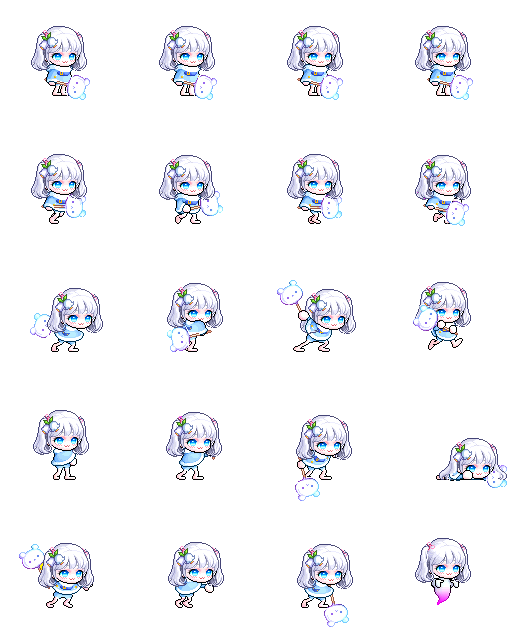
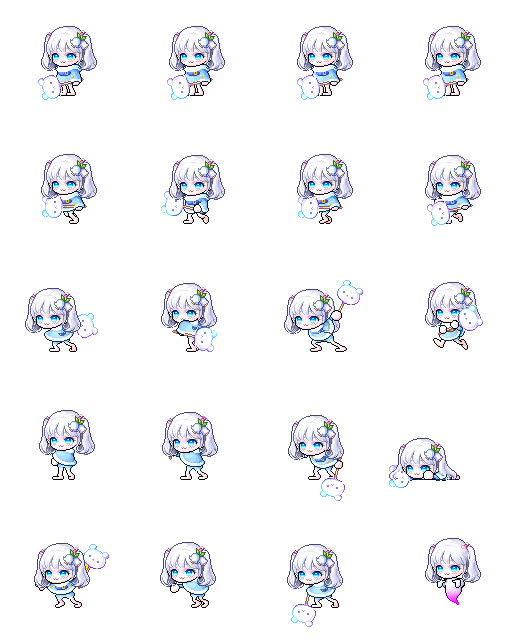
플레이어 모션 추가, 라인타기 완성, UI 구조 완성

diff --git a/Maple/Player.py b/Maple/Player.py
@@ -3,18 +3,64 @@ from Input_Manager import Input_manager
 from Scroll_Manager import ScrollManager
 from Line_Manager import LineManager
 from pico2d import *
+from enum import Enum, auto
+from Resource_Manager import ResourceManager
+from Animation_Manager import Animation
+
+
+class PlayerState(Enum):
+    IDLE = auto()
+    WALK = auto()
+    ATTACK = auto()
+    JUMP = auto()
+
+
+class Direction(Enum):
+    LEFT = auto()
+    RIGHT = auto()
+
 
 class Player(GameObject):
-    def __init__(self, x=400, y=300):  # 초기 위치
+    def __init__(self, x=400, y=300):
         super().__init__(x, y, size=50)
         self.hp = 100
-        self.speed = 200          # 이동 속도
-        self.vy = 0               # Y 속도
-        self.gravity = -1000      # 중력 (픽셀/s²)
-        self.jump_power = 500     # 점프 힘
-        self.on_ground = False    # 라인 위인지
+        self.speed = 200
+        self.vy = 0
+        self.gravity = 1300
+        self.jump_power = 500
+        self.on_ground = False
 
-        # 스크롤 초기화
+        self.state = PlayerState.IDLE
+        self.direction = Direction.RIGHT
+
+        # 공격 타이머
+        self.attack_timer = 0
+        self.prev_state = PlayerState.IDLE
+
+        rm = ResourceManager.instance()
+        self.image_left = rm.get("Player_Left")
+        self.image_right = rm.get("Player_Right")
+
+        self.animations = {
+            (PlayerState.IDLE, Direction.RIGHT): Animation(self.image_right, 128, 128,
+                                                           {'x': 0, 'y': 512, 'frame_count': 4}),
+            (PlayerState.WALK, Direction.RIGHT): Animation(self.image_right, 128, 128,
+                                                           {'x': 0, 'y': 384, 'frame_count': 4}),
+            (PlayerState.ATTACK, Direction.RIGHT): Animation(self.image_right, 128, 128,
+                                                             {'x': 0, 'y': 256, 'frame_count': 3}),
+            (PlayerState.JUMP, Direction.RIGHT): Animation(self.image_right, 128, 128,
+                                                           {'x': 384, 'y': 256, 'frame_count': 1}),
+
+            (PlayerState.IDLE, Direction.LEFT): Animation(self.image_left, 128, 128,
+                                                          {'x': 0, 'y': 512, 'frame_count': 4}),
+            (PlayerState.WALK, Direction.LEFT): Animation(self.image_left, 128, 128,
+                                                          {'x': 0, 'y': 384, 'frame_count': 4}),
+            (PlayerState.ATTACK, Direction.LEFT): Animation(self.image_left, 128, 128,
+                                                            {'x': 0, 'y': 256, 'frame_count': 3}),
+            (PlayerState.JUMP, Direction.LEFT): Animation(self.image_left, 128, 128,
+                                                          {'x': 384, 'y': 256, 'frame_count': 1}),
+        }
+
         scroll_mgr = ScrollManager.instance()
         scroll_mgr.scroll_x = 0
         scroll_mgr.scroll_y = 0
@@ -23,47 +69,75 @@ class Player(GameObject):
         if self.is_dead:
             return
 
-        self.handle_input(dt)      # 키 입력 처리
-        self.apply_gravity(dt)     # 중력 적용 및 라인 충돌 체크
-        self.update_scroll()       # 스크롤 업데이트
+        self.handle_attack_timer(dt)
+        self.handle_input(dt)
+        self.apply_gravity(dt)
+        self.update_scroll()
+        self.animations[(self.state, self.direction)].update(dt)
+
+    def handle_attack_timer(self, dt):
+        if self.attack_timer > 0:
+            self.attack_timer -= dt
+            if self.attack_timer <= 0:
+                self.attack_timer = 0
+                self.state = self.prev_state  # 공격 끝나면 이전 상태로
 
     def handle_input(self, dt):
-        # 좌우 이동
         dx = 0
-        if Input_manager.instance().Key_Pressing(SDLK_a):
-            dx = -self.speed * dt
-        if Input_manager.instance().Key_Pressing(SDLK_d):
-            dx = self.speed * dt
+        im = Input_manager.instance()
+
+        # 지상 공격 중에는 이동 불가
+        if self.state == PlayerState.ATTACK and self.on_ground:
+            dx = 0
+        else:
+            # ← → 화살표 이동
+            if im.Key_Pressing(SDLK_LEFT):
+                dx = -self.speed * dt
+                self.direction = Direction.LEFT
+                if self.on_ground and self.attack_timer == 0:
+                    self.state = PlayerState.WALK
+            elif im.Key_Pressing(SDLK_RIGHT):
+                dx = self.speed * dt
+                self.direction = Direction.RIGHT
+                if self.on_ground and self.attack_timer == 0:
+                    self.state = PlayerState.WALK
+            else:
+                if self.on_ground and self.attack_timer == 0:
+                    self.state = PlayerState.IDLE
+
+        # 점프 → Alt (왼쪽 Alt 사용, 오른쪽 Alt면 SDLK_RALT)
+        if im.Key_Down(SDLK_LALT) and self.on_ground and self.attack_timer == 0:
+            self.vy = self.jump_power
+            self.on_ground = False
+            self.state = PlayerState.JUMP
+
+        # 공격 → Ctrl (왼쪽 Ctrl 사용, 오른쪽 Ctrl면 SDLK_RCTRL)
+        if im.Key_Down(SDLK_LCTRL) and self.attack_timer == 0:
+            self.prev_state = self.state
+            self.state = PlayerState.ATTACK
+            self.attack_timer = 0.45  # 공격 모션 지속 시간
 
         self.x += dx
 
-        # 점프
-        if Input_manager.instance().Key_Down(SDLK_SPACE) and self.on_ground:
-            self.vy = self.jump_power
-            self.on_ground = False
-
     def apply_gravity(self, dt):
-        # Y 속도에 중력 적용
-        self.vy += self.gravity * dt
-        self.y += self.vy * dt
+        self.vy -= self.gravity * dt
+        new_y = self.y + self.vy * dt
 
-        # 바닥 기준 충돌 체크
-        foot_y = self.y - self.size / 2  # 플레이어 바닥 위치
-        collided_y, collision = LineManager.instance().collision_line(self.x, foot_y, move_y=abs(self.vy * dt))
+        foot_y = new_y - self.size / 2
+        collided_y, collided = LineManager.instance().collision_line(self.x, foot_y, abs(self.vy * dt))
 
-        if collision and self.vy <= 0:  # 떨어질 때만 바닥에 붙도록
+        if collided and self.vy <= 0:
             self.y = collided_y + self.size / 2
             self.vy = 0
             self.on_ground = True
         else:
+            self.y = new_y
             self.on_ground = False
 
     def update_scroll(self):
         scroll_mgr = ScrollManager.instance()
-        left_border = 300
-        right_border = 500
-        top_border = 150
-        bottom_border = 200
+        left_border, right_border = 300, 500
+        top_border, bottom_border = 150, 200
 
         if self.x - scroll_mgr.scroll_x < left_border:
             scroll_mgr.set_scroll_x(self.x - scroll_mgr.scroll_x - left_border)
@@ -77,11 +151,8 @@ class Player(GameObject):
 
     def render(self):
         scroll_x, scroll_y = ScrollManager.instance().get_scroll()
-        draw_x = self.x - scroll_x
-        draw_y = self.y - scroll_y
-
-        draw_rectangle(draw_x - self.size / 2, draw_y - self.size / 2,
-                       draw_x + self.size / 2, draw_y + self.size / 2)
+        anim = self.animations[(self.state, self.direction)]
+        anim.draw(self.x, self.y, scroll_x, scroll_y)
 
     def late_update(self):
         pass

diff --git a/Maple/Level_Tutorial.py b/Maple/Level_Tutorial.py
@@ -3,6 +3,7 @@ from Resource_Manager import ResourceManager
 from Scroll_Manager import ScrollManager
 from Line_Manager import LineManager, Line
 from Player import Player
+from Default_UI import Default_UI, UI_INDEX
 
 class level_tutorial:
     def __init__(self):
@@ -13,14 +14,39 @@ class level_tutorial:
     def initialize(self):
         rm = ResourceManager.instance()
         rm.load(self.bg_key, self.bg_path)
+        rm.load("Player_Left","Resource/Player/Player_Left.png")
+        rm.load("Player_Right", "Resource/Player/Player_Right.png")
+
+        rm.load("UI_EXP_BAR","Resource/UI/EXPBar.png")
+
+
+
         self.bg_image = rm.get(self.bg_key)
 
-        ground_line = Line(0, 210, self.bg_image.w, 210, thickness=5)
-        LineManager.instance().add_line(ground_line)
+        ground_line1 = Line(0, 210, self.bg_image.w, 210, thickness=5)
+        LineManager.instance().add_line(ground_line1)
+
+        ground_line2 = Line(280, 450, self.bg_image.w-180, 450, thickness=5)
+        LineManager.instance().add_line(ground_line2)
+
+        small_ground_line1 = Line(105,335,230,335,thickness=5)
+        LineManager.instance().add_line(small_ground_line1)
+
+        small_ground_line2 = Line(105,400,230,400,thickness=5)
+        LineManager.instance().add_line(small_ground_line2)
+
+
+        ObjectLine2 = Line(272,270,372,270,thickness=5)
+        LineManager.instance().add_line(ObjectLine2)
+
+
         players = ObjectManager.instance().get_objects(OBJ.PLAYER)
         if not players:
-            player = Player(x=300, y=300)
+            player = Player(x=300, y=400)
             ObjectManager.instance().add_object(player, OBJ.PLAYER)
+
+        exp_ui = Default_UI(UI_INDEX.EXP_BAR, player=player, x=400, y=40)
+        ObjectManager.instance().add_object(exp_ui, OBJ.UI)
 
     def update(self,dt):
         ObjectManager.instance().update(dt)
@@ -35,10 +61,11 @@ class level_tutorial:
                                     self.bg_image.w, self.bg_image.h,
                                     self.bg_image.w // 2 - scroll_x,
                                     self.bg_image.h // 2 - scroll_y)
-
-        ObjectManager.instance().render()
         scroll_x, scroll_y = ScrollManager.instance().get_scroll()
         LineManager.instance().render(scroll_x, scroll_y)
+        ObjectManager.instance().render()
+
+
 
     def release(self):
         ObjectManager.instance().release_all_except([OBJ.PLAYER])

diff --git a/Maple/Default_UI.py b/Maple/Default_UI.py
@@ -1,0 +1,52 @@
+from GameObject import GameObject
+from Resource_Manager import ResourceManager
+from pico2d import *
+from enum import Enum, auto
+
+class UI_INDEX(Enum):
+    INFO_BAR = auto()
+    EXP_BAR = auto()
+    HP_BAR = auto()
+    MP_BAR = auto()
+
+class Default_UI(GameObject):
+    def __init__(self, ui_type, player=None, x=0, y=0):
+        width, height, img_key, img_path = 200, 20, None, None
+        if ui_type == UI_INDEX.HP_BAR:
+            pass
+        elif ui_type == UI_INDEX.MP_BAR:
+            pass
+        elif ui_type == UI_INDEX.EXP_BAR:
+            width, height = 800, 80
+            img_key = "UI_EXP_BAR"
+        elif ui_type == UI_INDEX.INFO_BAR:
+            pass
+
+        super().__init__(x, y, size=max(width, height))
+        self.ui_type = ui_type
+        self.player = player
+        self.width = width
+        self.height = height
+        self.current_value = width
+
+        rm = ResourceManager.instance()
+        if img_key:
+            self.image = rm.get(img_key)
+        else:
+            self.image = None
+
+
+
+    def update(self, dt):
+        if self.ui_type == UI_INDEX.HP_BAR and self.player:
+            pass
+        elif self.ui_type == UI_INDEX.MP_BAR and self.player:
+            pass
+        elif self.ui_type == UI_INDEX.EXP_BAR and self.player:
+            pass
+        elif self.ui_type == UI_INDEX.INFO_BAR:
+            pass
+
+    def render(self):
+        if self.image:
+            self.image.draw(self.x, self.y)  # x, y는 중심 좌표

diff --git a/Maple/Line_Manager.py b/Maple/Line_Manager.py
@@ -35,27 +35,22 @@ class LineManager:
         self.lines.append(line)
 
     def collision_line(self, x, y, move_y):
-        """
-        X 좌표에서 y 충돌 판정
-        :param x: 플레이어 X
-        :param y: 플레이어 현재 Y
-        :param move_y: 이동량
-        :return: 충돌한 Y 좌표, 충돌 여부
-        """
         if not self.lines:
             return y, False
 
         min_delta = float('inf')
         collided_y = y
+        tolerance = 5  # 발 위치에서 허용 오차
+
         for line in self.lines:
-            # 플레이어 X가 라인 범위 안에 있는지 확인
             if line.x1 <= x <= line.x2 or line.x2 <= x <= line.x1:
                 line_y = line.equation_y(x)
                 delta = line_y - y
-                # 아래 방향으로만 충돌 체크
-                if -move_y <= delta < min_delta:
-                    min_delta = delta
-                    collided_y = line_y
+                # 아래로 이동하거나, 라인 위 tolerance 범위 내
+                if -move_y - tolerance <= delta <= tolerance:
+                    if abs(delta) < min_delta:
+                        min_delta = abs(delta)
+                        collided_y = line_y
 
         return collided_y, min_delta != float('inf')
 

diff --git a/Maple/Animation_Manager.py b/Maple/Animation_Manager.py
@@ -1,0 +1,20 @@
+class Animation:
+    def __init__(self, image, frame_w, frame_h, frame_data, fps=8):
+        self.image = image
+        self.frame_w = frame_w
+        self.frame_h = frame_h
+        self.frame_data = frame_data  # 예: [(x, y, frame_count)]
+        self.fps = fps
+        self.timer = 0
+        self.frame_index = 0
+
+    def update(self, dt):
+        self.timer += dt
+        if self.timer > 1 / self.fps:
+            self.timer = 0
+            self.frame_index = (self.frame_index + 1) % self.frame_data['frame_count']
+
+    def draw(self, x, y, scroll_x, scroll_y):
+        sx = self.frame_data['x'] + self.frame_index * self.frame_w
+        sy = self.frame_data['y']
+        self.image.clip_draw(sx, sy, self.frame_w, self.frame_h, x - scroll_x, y - scroll_y)

diff --git a/Maple/GameObject.py b/Maple/GameObject.py
@@ -3,6 +3,7 @@ class GameObject:
         self.x = x
         self.y = y
         self.size = size
+        self.image_size = size
         self.is_dead = False
 
     def update(self, dt):
